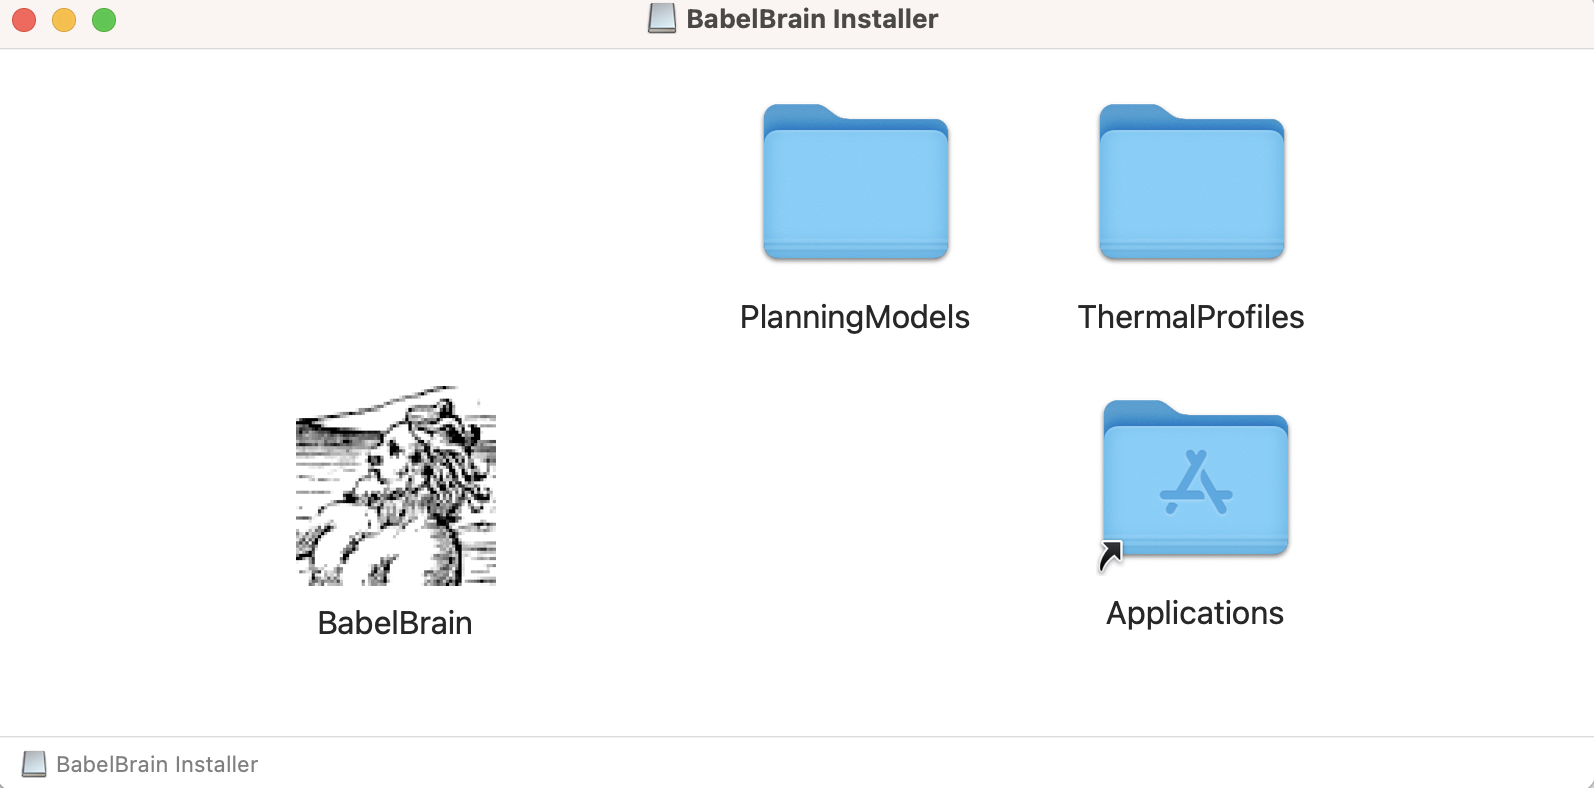
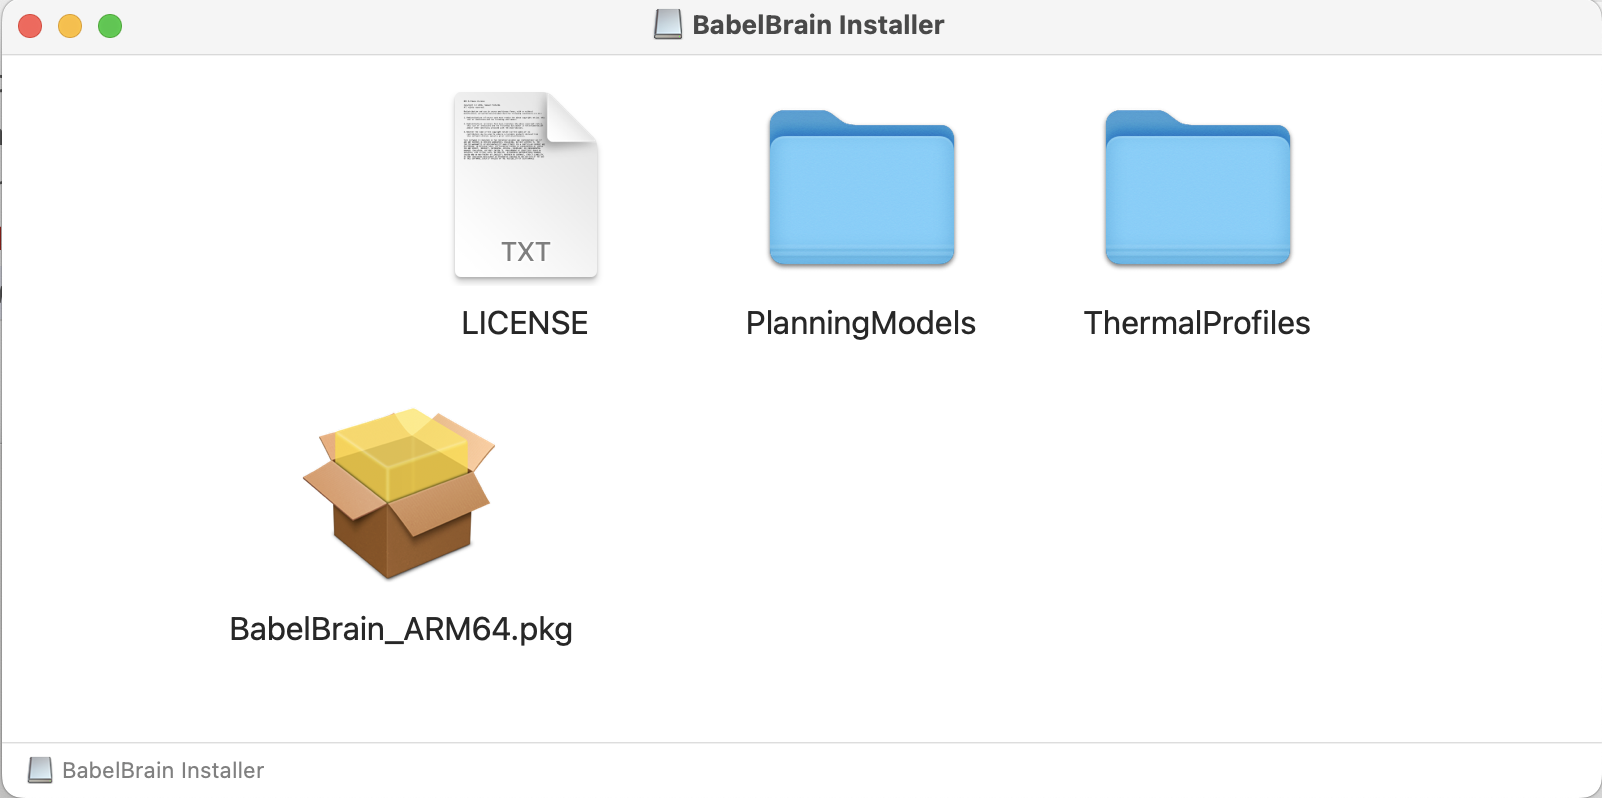
Deployed d0cd3f6 with MkDocs version: 1.4.2

diff --git a/installation.html b/installation.html
@@ -97,6 +97,10 @@
               <ul class="nav flex-column">
               </ul>
             </li>
+            <li class="nav-item" data-level="2"><a href="#extra-software-required-to-run-babelbrain" class="nav-link">Extra software required to run BabelBrain</a>
+              <ul class="nav flex-column">
+              </ul>
+            </li>
               </ul>
             </li>
             
@@ -140,6 +144,7 @@
 <p>BabelBrain supports GPUs enabled via CUDA, OpenCL or Metal. High-end GPUs (8 GPU RAM or more) are recommended. ARM64 processors (M1, M2) in Mac systems with 24GB or more RAM are highly recommended. BabelBrain was designed with Mac systems based on M1 and M2 processors as primary targets. </p>
 <h4 id="note-for-intel-based-mac-systems">Note for Intel-based Mac systems</h4>
 <p>Intel-based systems need to have a dedicated AMD GPU (internal or external via Thunderbolt). Intel-based iMac Pro and MacPro systems have internal GPUs suitable for sub 500 kHz simulations (i.e., Vega 56, Vega 64). An external GPU (i.e., AMD W6800 Pro) offers excellent performance and capability for high-frequency simulations.</p>
+<h2 id="extra-software-required-to-run-babelbrain">Extra software required to run BabelBrain</h2>
 <h3 id="blender">Blender</h3>
 <p><a href="https://www.blender.org">Blender</a> is required for constructive solid geometry operations. Install with default options.</p>
 <h3 id="simnibs">SimNIBS</h3>
@@ -149,8 +154,8 @@
 <h3 id="navigation-planning-software">Navigation-planning software</h3>
 <p>While not strictly required, it is highly recommended to use planning software to establish the target localization and orientation, called <strong>trajectory</strong> in the following documentation, of the ultrasound transducer for the simulation of transcranial ultrasound. The trajectory is just a transformation matrix in the T1W space that represents the translation-rotation of a vector describing the target and direction of ultrasound. BabelBrain can import trajectories defined in proprietary software (<a href="https://www.rogue-research.com/">Rogue Research's</a> Brainsight) or open-source visualization software (<a href="https://www.slicer.org/">3DSlicer</a>). Instructions are detailed in the pipeline section of this documentation. </p>
 <h1 id="standalone-application">Standalone application</h1>
-<p>Ready-to-use applications (no need for Python installation) for macOS and Windows are available in the <a href="https://github.com/ProteusMRIgHIFU/BabelBrain/releases">Releases</a> section. </p>
-<p>For MacOS, download the installer and drag "BabelBrain" into the Applications folder. </p>
+<p>Ready-to-use applications (no need for Python installation) for macOS and Windows are available in the <a href="https://github.com/ProteusMRIgHIFU/BabelBrain/releases">Releases</a> section. Please note that for macOS there are installers for ARM64 (M1 and newer Apple Silicon processors) and Intel X64, so be sure of picking the correct version matching your hardware. </p>
+<p>For MacOS, open the DMG file and double-click on the package installer. </p>
 <p><img src="install1.png" height=300px></p>
 <p>The first time you will use you may be prompted to authorize it to run and access directories. You may also need to authorize it in the Security settings of macOS.</p>
 <p>For Windows, download the MSI installer file and run to install BabelBrain. Shortcuts will be created in the Desktop and Start menu. <strong>Note</strong>: CUDA 11.7+ must be installed.</p>
@@ -167,8 +172,7 @@
 <h1 id="building-standalone-application">Building standalone application</h1>
 <p>A pyinstaller specification file is provided to build the macOS and Windows applications. In the <code>BabelBrain/BabelBrain</code> directory run</p>
 <p><code>pyinstaller BabelBrain.spec --noconfirm</code> </p>
-<p>A new application will be created at <code>BabelBrain/BabelBrain/dist/</code></p>
-<p>For macOS, a DMG image installer can be created with the <code>BabelBrain/BabelBrain/create_dmg.sh</code> script. You need to install <code>create-dmg</code> tool with homebrew. </p></div>
+<p>A new application will be created at <code>BabelBrain/BabelBrain/dist/</code></p></div>
             </div>
         </div>
 

diff --git a/pipeline/pipeline.html b/pipeline/pipeline.html
@@ -157,8 +157,9 @@
 <p><strong>Mandatory</strong>: Execute  SimNIBS 3.x <code>headreco</code> or SimNIBS 4.x <code>charm</code> processing tool:</p>
 <p><code>headreco all &lt;ID&gt; &lt;Path to T1W Nifti file&gt; &lt;Path to T2W Nifti file&gt;</code></p>
 <p>or</p>
-<p><code>charm &lt;ID&gt; &lt;Path to T1W Nifti file&gt; &lt;Path to T2W Nifti file&gt; --forceqform</code></p>
-<p><code>&lt;ID&gt;</code> is a string for identification. A subdirectory <code>m2m_&lt;ID&gt;</code> will be created. Take note of this directory, this will be referred to as the <strong>SimNIBS output</strong> directory in the following of this manual. The <code>--forceqform</code> parameter is required as often Nifti files are not 100% strict on how qform and sform matrices are saved. </p>
+<p><code>charm &lt;ID&gt; &lt;Path to T1W Nifti file&gt; &lt;Path to T2W Nifti file&gt;</code></p>
+<p><code>&lt;ID&gt;</code> is a string for identification. A subdirectory <code>m2m_&lt;ID&gt;</code> will be created. Take note of this directory, this will be referred to as the <strong>SimNIBS output</strong> directory in the following of this manual.</p>
+<p><strong>Note</strong>: Sometimes, <code>charm</code> may complain that the qform and sform matrices are inconsistent. We have observed this when converting DICOM datasets with <code>dcm2niix</code>. If <code>charm</code> complains, you can try passing the  <code>--forceqform</code> parameter when executing <code>charm</code>.  </p>
 </li>
 <li>
 <p><strong>Mandatory</strong>: Identify the coordinates of the target of focus ultrasound in T1W space. If you need to start in standardized space (e.g. MNI), there are many tools (FSL, SPM12, etc) that can be used to convert from standardized space to T1W space. </p>

diff --git a/index.html b/index.html
@@ -110,14 +110,15 @@
                     <div class="col-md-9" role="main">
 
 <h1 id="babelbrain">BabelBrain</h1>
-<p><strong>v0.2.9</strong></p>
+<p><strong>v0.2.9-b</strong><br />
+October 14th, 2023.</p>
 <p>Samuel Pichardo, Ph.D<br />
 Associate Professor<br />
 Radiology and Clinical Neurosciences, Hotchkiss Brain Institute<br />
 Cumming School of Medicine,<br />
 University of Calgary <br />
 samuel.pichardo@ucalgary.ca<br />
-www.neurofus.ca</p>
+<a href="https://www.neurofus.ca">www.neurofus.ca</a></p>
 <p><strong>GUI application for the modeling of transcranial ultrasound for neuromodulation applications</strong></p>
 <p><img src="intro.png"></p>
 <p><img src="Target-demo.png"></p>
@@ -132,7 +133,7 @@ doi: <a href="https://doi.org/10.1109/TUFFC.2023.3274046">10.1109/TUFFC.2023.327
 <p>This software is provided "as is" and it is intended exclusively for research purposes.</p>
 <h2 id="licensing">Licensing</h2>
 <p>BSD 3-Clause License</p>
-<p>Copyright (c) 2022, Samuel Pichardo
+<p>Copyright (c) 2022,2023 Samuel Pichardo
 All rights reserved.</p>
 <p>Redistribution and use in source and binary forms, with or without
 modification, are permitted provided that the following conditions are met:</p>
@@ -244,5 +245,5 @@ OF THIS SOFTWARE, EVEN IF ADVISED OF THE POSSIBILITY OF SUCH DAMAGE.</p></div>
 
 <!--
 MkDocs version : 1.4.2
-Build Date UTC : 2023-09-29 16:39:31.217380+00:00
+Build Date UTC : 2023-10-17 14:38:21.886766+00:00
 -->
